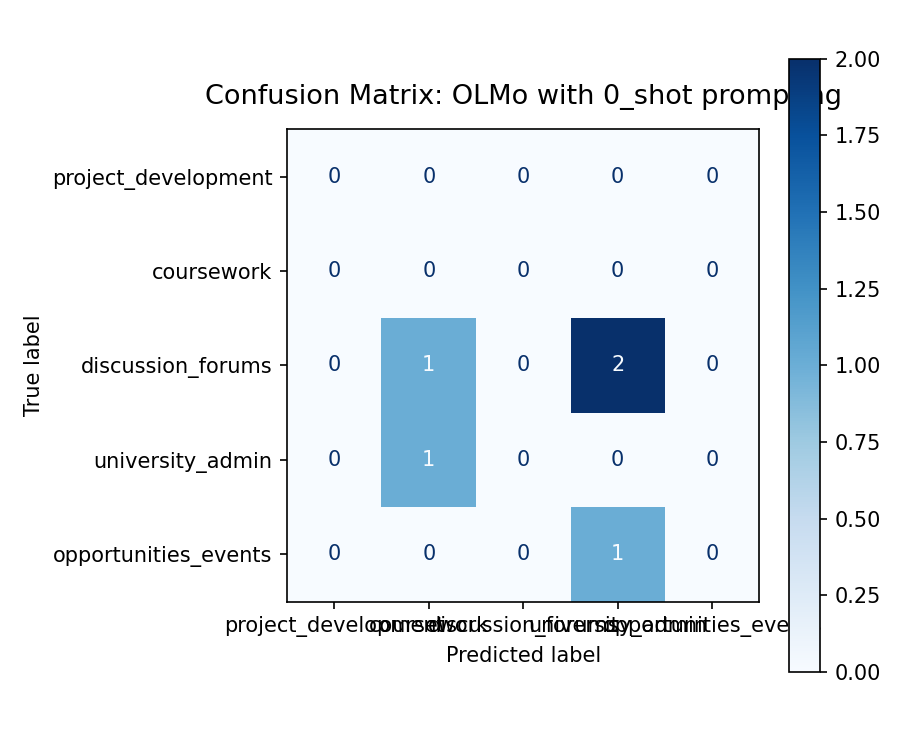
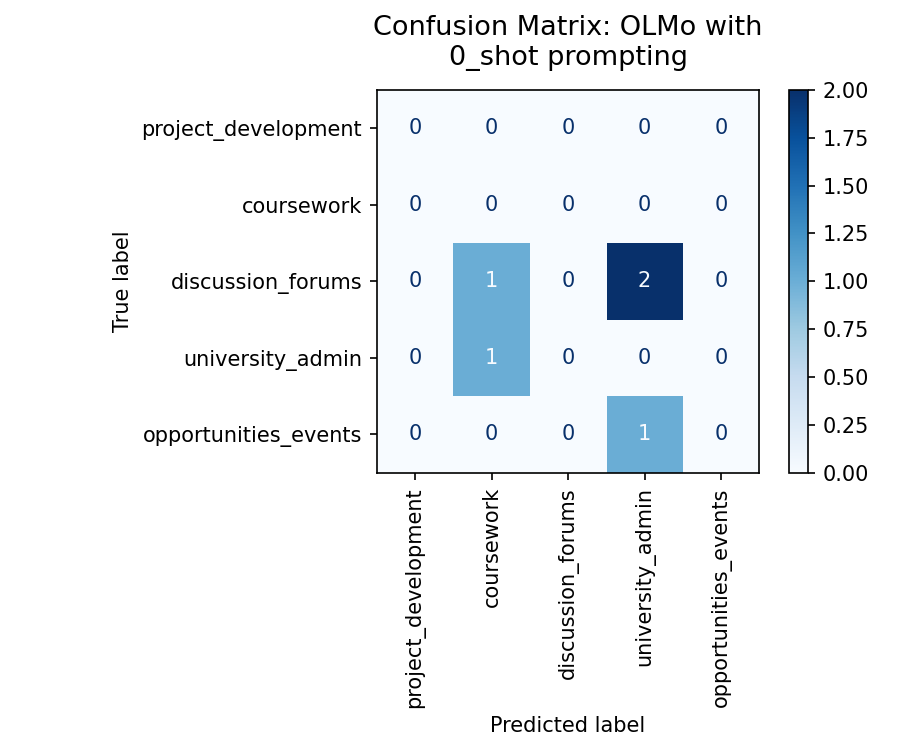
fix confusion matrix layout

diff --git a/code/pretrained_decoder.py b/code/pretrained_decoder.py
@@ -191,6 +191,9 @@ for i, row in enumerate(test.itertuples()):
         # Timeout to prevent API from being overloaded
         time.sleep(0.1)
 
+    if i > 3:
+        break
+
 # Calculate metrics for each of the 4 prompting modes
 accuracies = []
 precisions = []
@@ -225,6 +228,7 @@ for i in range(len(modes)):
     confusion_plot = ConfusionMatrixDisplay(confusion, display_labels=classes)
     fig, ax = plt.subplots(figsize=(max(6, len(classes)), max(5, len(classes) - 1)))
     confusion_plot.plot(ax=ax, colorbar=True, cmap="Blues")
-    ax.set_title(f"Confusion Matrix: OLMo with {modes[i]} prompting", fontsize=13, pad=12)
+    ax.set_title(f"Confusion Matrix: OLMo with\n{modes[i]} prompting", fontsize=13, pad=12)
+    ax.set_xticklabels(ax.get_xticklabels(), rotation=90)
     plt.tight_layout()
     plt.savefig(f"metrics/olmo_{modes[i]}_confusion_matrix.png", dpi=150)
